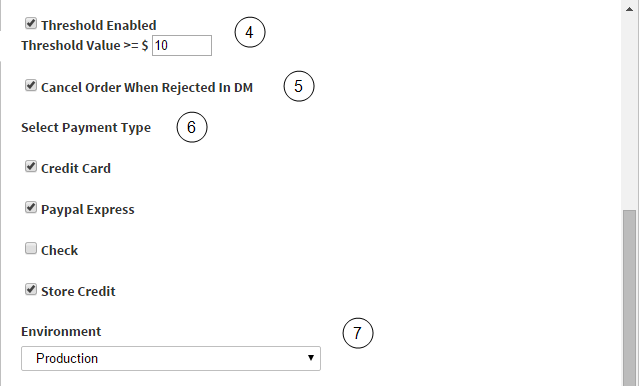
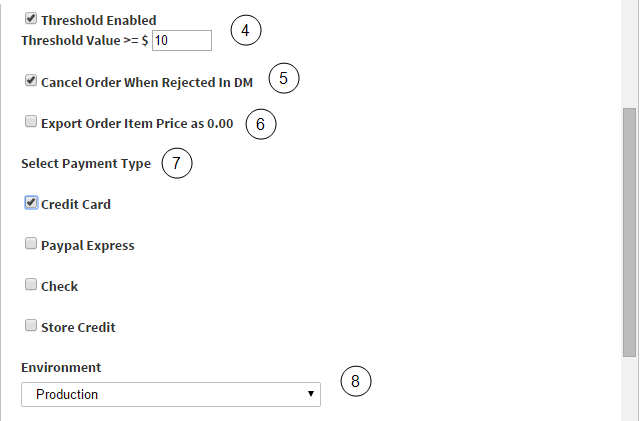
DM Updates

diff --git a/Preview/DecisionManager/Mozu-DecisionManager-App.htm b/Preview/DecisionManager/Mozu-DecisionManager-App.htm
@@ -255,15 +255,19 @@
 							</tr>
 							<tr>
 								<td><strong>5</strong></td>
-								<td><strong>Cancel Order When Rejected in DM</strong>&#8212;(Optional) If enabled, specifies to automatically cancel orders in Mozu that are rejected by Decision Manager. If not enabled, orders rejected by Decision Manager are set to Pending Review in Mozu.<span class="panel-note"><strong>Note:</strong> Cancelled orders in Mozu cannot be reverted to a non-cancelled state.</span></td>
+								<td><strong>Cancel Order When Rejected in DM</strong>&#8212;(Optional) Specifies to automatically cancel orders in Mozu that are rejected by Decision Manager. If not enabled, orders rejected by Decision Manager are set to Pending Review in Mozu.<span class="panel-note"><strong>Note:</strong> Cancelled orders in Mozu cannot be reverted to a non-cancelled state.</span></td>
 							</tr>
 							<tr>
-								<td><span id="config6"><strong>6</strong></span></td>
+								<td><strong>6</strong></td>
+								<td><strong>Export Order Item Price as 0.00</strong>&#8212;(Optional) Specifies to export orders to Decision Manager with the price for individual line items set to 0.00. The <strong>Order Total</strong> still shows the full price of the order.</td>
+							</tr>
+							<tr>
+								<td><span id="config6"><strong>7</strong></span></td>
 								<td><strong>Select Payment Type</strong>&#8212;Specifies the payment types to check for fraud in Decision Manager. Mozu sends ONLY the payment types you select to Decision Manager. If you select multiple payment types, Mozu sends only the <em>largest</em> selected payment type applied to a given order to Decision Manager for screening.
 									<span class="panel-note"><strong>Note:</strong> The <strong>Paypal Express</strong> payment type is only supported for the legacy version of Mozu PayPal, implemented through Mozu Core 8 and earlier. If you are implementing PayPal support through the PayPal Express Certified Mozu Application, Decision Manager does not check PayPal payments for potential fraud. CyberSource's current tooling requires a billing address with every order. PayPal Express obscures billing information for security reasons, so Mozu cannot provide it to CyberSource.</span></td>
 							</tr>
 							<tr>
-								<td><strong>7</strong></td>
+								<td><strong>8</strong></td>
 								<td><strong>Environment</strong>&#8212;Specifies the Decision Manager environment to use for fraud checking. If you select <strong>Test</strong>, the application sends order information to Decision Manager's test site, where you can evaluate fraud detection rules in a sandbox setting. When you are satisfied with the rules you set in Decision Manager, choose <strong>Production</strong> to enable live fraud detection on your site.</td>
 							</tr>
 						</table>
@@ -284,29 +288,54 @@
 							</tr>
 						</table>
 								
-								  <h3 id="rules">(Optional) Map Mozu Fields to Custom Fraud Detection Rules</h3>
-							<p>If you want to add to the rules that Decision Manager uses to screen an order for fraud risk, use the Decision Manager website to modify the existing rules or create new custom rules. To help you build custom rules, you can map Mozu fields, such as email address and payment types, to available merchant-defined data fields in Decision Manager. Afterwards, you can associate the MDD fields with custom fields in Decision Manager and use the custom fields in your fraud detection rules. To map these fields:</p>
+								  <h2 id="rules">(Optional) Create Custom Rules</h3>
+							<p>If you want to add to the rules that Decision Manager uses to screen an order for fraud risk, you can use the CyberSource Business Center to modify the existing rules or create new custom rules. To help you build custom rules, you can map Mozu fields, such as email address and payment types, to available merchant-defined data (MDD) fields in Decision Manager. Afterwards, you can associate the MDD fields with custom fields in Decision Manager and use the custom fields in your fraud detection rules.</p>
+							<h3 id="mappings">Create Custom Mappings from Mozu</h3>
 							<ol>
-								<li>Log in to Mozu Admin.</li>
-                                <li>On the Mozu Admin top bar, select <strong>Settings</strong> > <strong>Applications</strong>.</li>
-                                <li>Click <strong>CyberSource Decision Manager</strong>.</li>
-                                <li>Click the <strong>Configuration</strong> link to open configuration settings.</li>
-                                <li>Open the <strong>Custom Mapping</strong> tab.</li>
-                                <li>Select the <strong>Merchant ID</strong> that corresponds to the CyberSource account you want to set up the mappings for.</li>
-                                <li>Click <strong>Add Custom Mapping</strong>.<br><img src="mapping.png" class="img-mozu"><br>
+								<li>Open the Decision Manager app configuration settings dialog.</li>
+                                <li>Go to the <strong>Custom Mapping</strong> tab. <span class="panel-note"><strong>Note:</strong> This tab only appears after you configure and save your account information on the <strong>Settings</strong> tab.</span></li>
+                                <li>Select the <strong>Merchant ID</strong> for the CyberSource account you are mapping.</li>
+                                <li>Click <strong>Add Custom Mapping</strong> and fill in the following fields:<br><img src="dm-mapping.png" class="img-mozu"></li>
+                            </ol>    	
+                            <table class="table table-hover" style="max-width:75%; font-size:90%;">
+							<tr>
+								<td><strong>1</strong></td>
+								<td><strong>Merchant ID</strong>&#8212;The Decision Manager <strong>Merchant ID</strong> you selected on the previous page.</td>
+							</tr>
+							<tr>
+								<td><strong>2</strong></td>
+								<td><strong>Domain</strong>&#8212;The type of Mozu data you are mapping. The value you choose determines the options that appear in the <strong>Mozu Data</strong> menu.</td>
+							</tr>
+							<tr>
+								<td><strong>3</strong></td>
+								<td><strong>Mozu Data</strong>&#8212;The specific order or customer data field from Mozu. Once a field is mapped, it no longer appears in the list.</td>
+							</tr>
+							<tr>
+								<td><strong>4</strong></td>
+								<td><strong>CyberSource Data</strong>&#8212;The Decision Manager merchant-defined data field to which you are mapping the <strong>Mozu Data</strong>. Only available fields appear in the list.</td>
+							</tr>
+							<tr>
+								<td><strong>5</strong></td>
+								<td><strong>Include in Offer Details</strong>&#8212;Specifies whether to include the custom mapping as a column in the Decision Manager <strong>Offer Details</strong> table.</td>
+							</tr>
+							<tr>
+								<td><strong>6</strong></td>
+								<td><strong>Offer Detail Value Column</strong>&#8212;Specifies which column in the Decision Manager <strong>Offer Details</strong> table displays the mapped data. If you select <strong>Price</strong>, the mapped data must be a decimal data type. <strong>SKU</strong> can display any data type.</td>
+							</tr>
+						</table>
+
+                                	<h3 id="dmfields">Create Custom Fields in Decision Manager</h3>
+                                	<p>After you create your mappings in Mozu, you must log in to Decision Manager account and associate a custom field with a mapped merchant-defined data field. Creating this association is necessary because fraud detection rules don't access merchant-defined data fields directly.</p> 
+                                	<p>For example, if you create a mapping in Mozu that assigns a customer's email address to Merchant-Defined Data 7, complete the following steps to create the custom field in Decision Manager:</p> 
                                 	<ol>
-                                		<li>Using the <strong>Domain</strong> drop-down menu, select the type of Mozu data you want to map to Decision Manager.</li>
-                                		<li>Select the <strong>Mozu Data</strong> that you want to map to Decision Manager. If the Mozu data is already mapped, Mozu does not display it in the drop-down.</li>
-                                		<li>Select which merchant-defined data field you want to map the data to. If the MDD field is already in use, Mozu does not display it in the drop-down.</li>
-                                		<li>Click <strong>Save</strong>.</li>
+                                		<li>Log in to the <a href="https://ebc.cybersource.com/ebc/login/Login.do" target="blank">CyberSource  Business Center</a>.</li>
+                                		<li>Go to <strong>Decision Manager</strong> > <strong>Configuration</strong> > <strong>Custom Fields</strong>.</li>
+                                		<li>Click <strong>Add Custom Field</strong>.</li>
+                                		<li>Select <strong>merchant_defined_data7</strong> as the <strong>Order Element</strong> and give the field a logical name, such as <strong>Email</strong>.</li>
+                                		<li>Click <strong>Save</strong> to create the field.</li>
                                 	</ol>
-                                	</li>
-                                	<li>After you create a mapping, log in to your Decision Manager account and associate a custom field with a mapped MDD field. You create this association in order to use the custom field within a rule (because rules don't access MDD fields directly). For example, in Mozu you may have mapped a shopper's email address to MDD 7. If this is the case, you should map a custom field in Decision Manager to MDD 7 and name it "Email". In this way, the data you map from Mozu is accessible for use in Decision Manager rules via the custom field.</li>
-                                	<li>After you complete the previous step, create custom rules in Decision Manager that utilize the custom fields you set up, thereby taking advantage of the data Mozu maps to MDD fields with each screened order.</li>
-							</ol>
 
-
-							 <p>For more information on creating custom rules and fields in Decision Manager, refer to the <em>Decision Manager User Guide</em> available through the CyberSource Business Center.</p>
+							 <p>You can now go to <strong>Configuration</strong> > <strong>Custom Rules</strong> to create a new rule. In the <strong>Rule Conditions</strong>, your custom fields appear in the <strong>Order Element</strong> drop-down. For more information on creating custom rules and fields in Decision Manager, refer to the <em>Decision Manager User Guide</em> available through the CyberSource Business Center.</p>
 							
                         </section>
 
